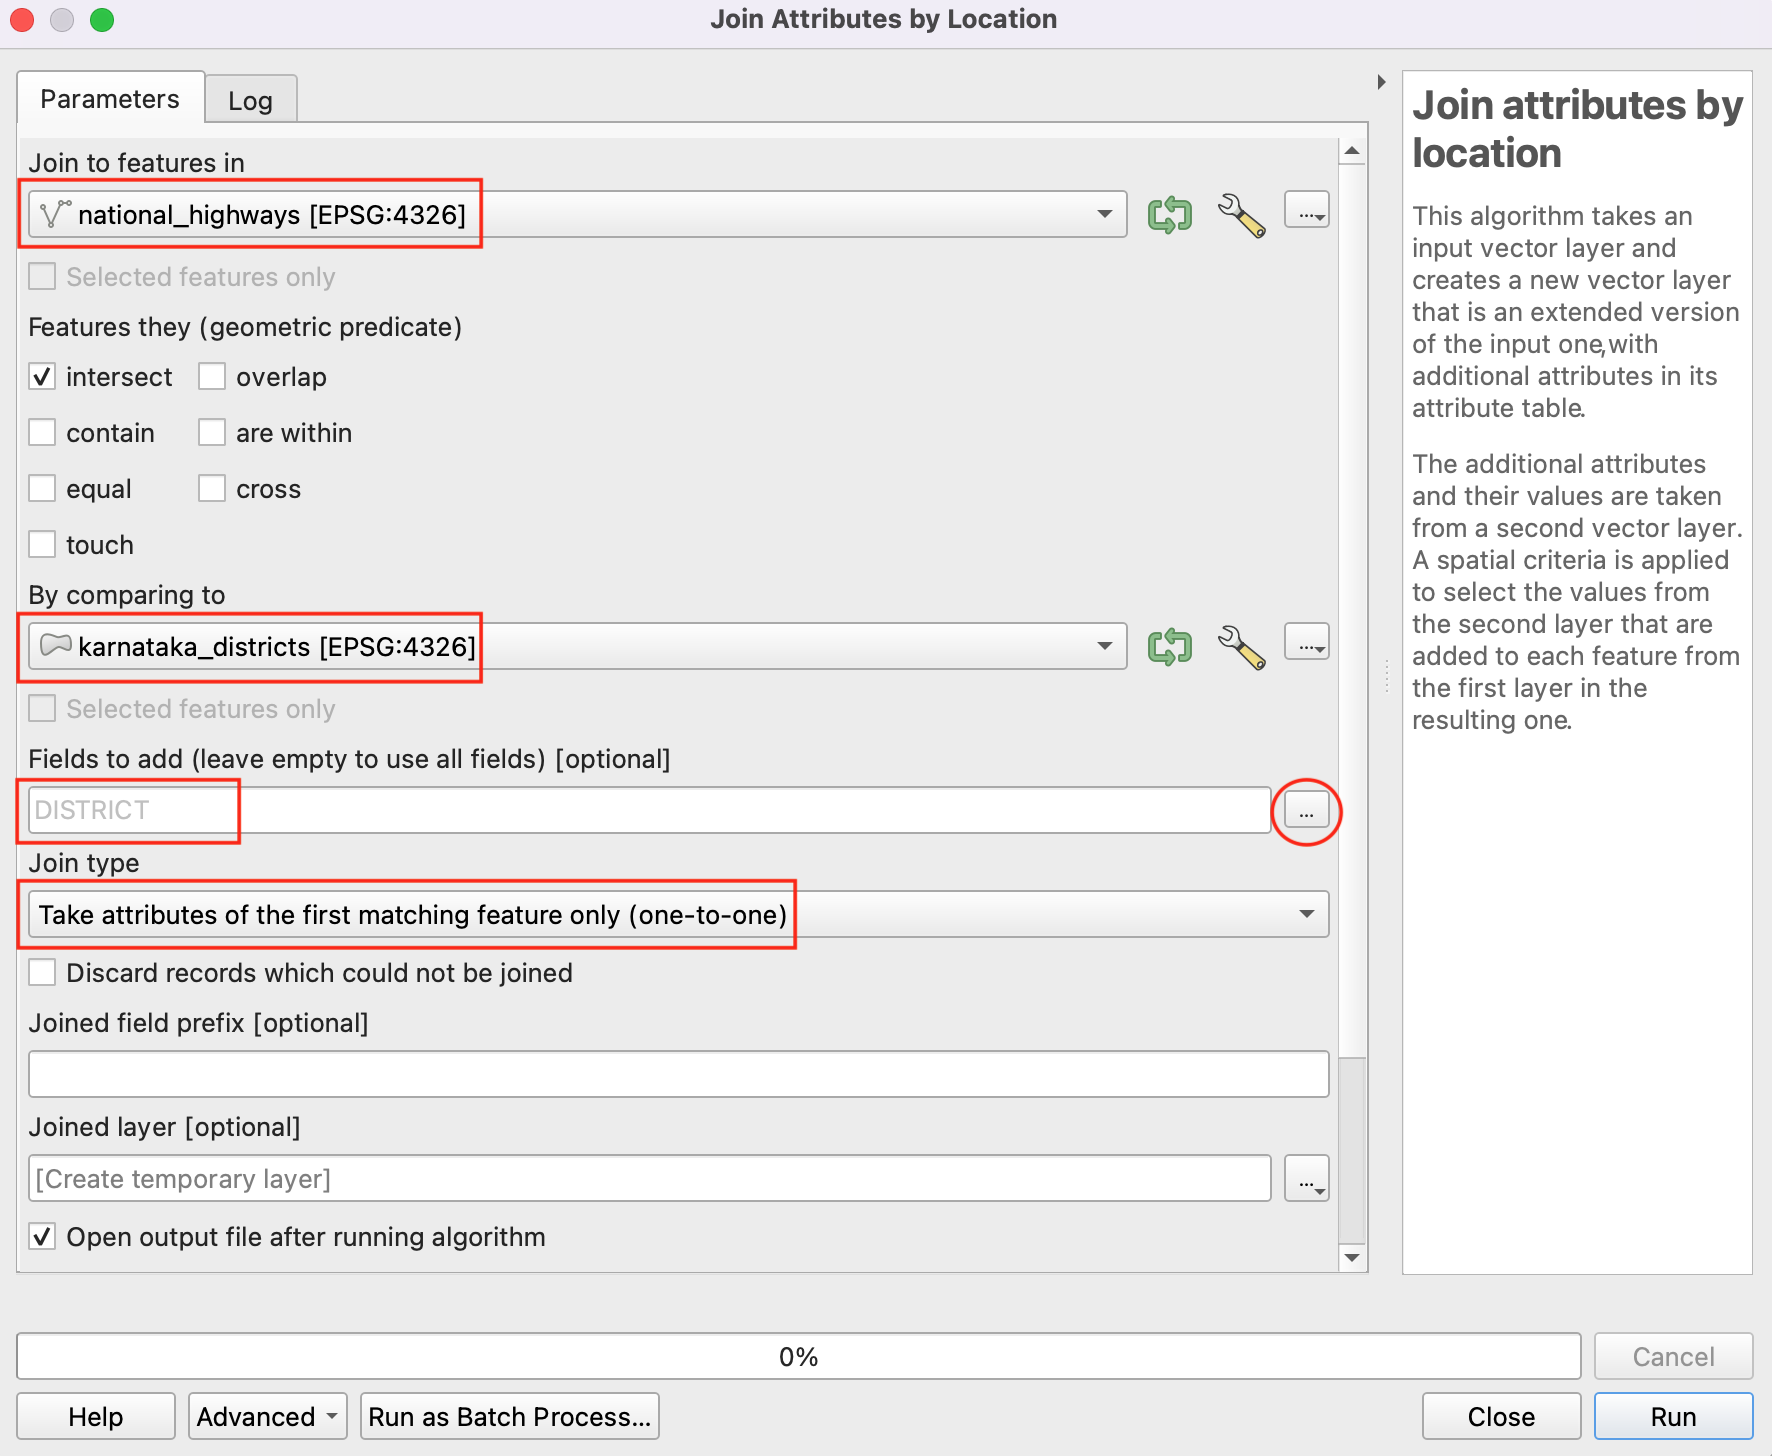
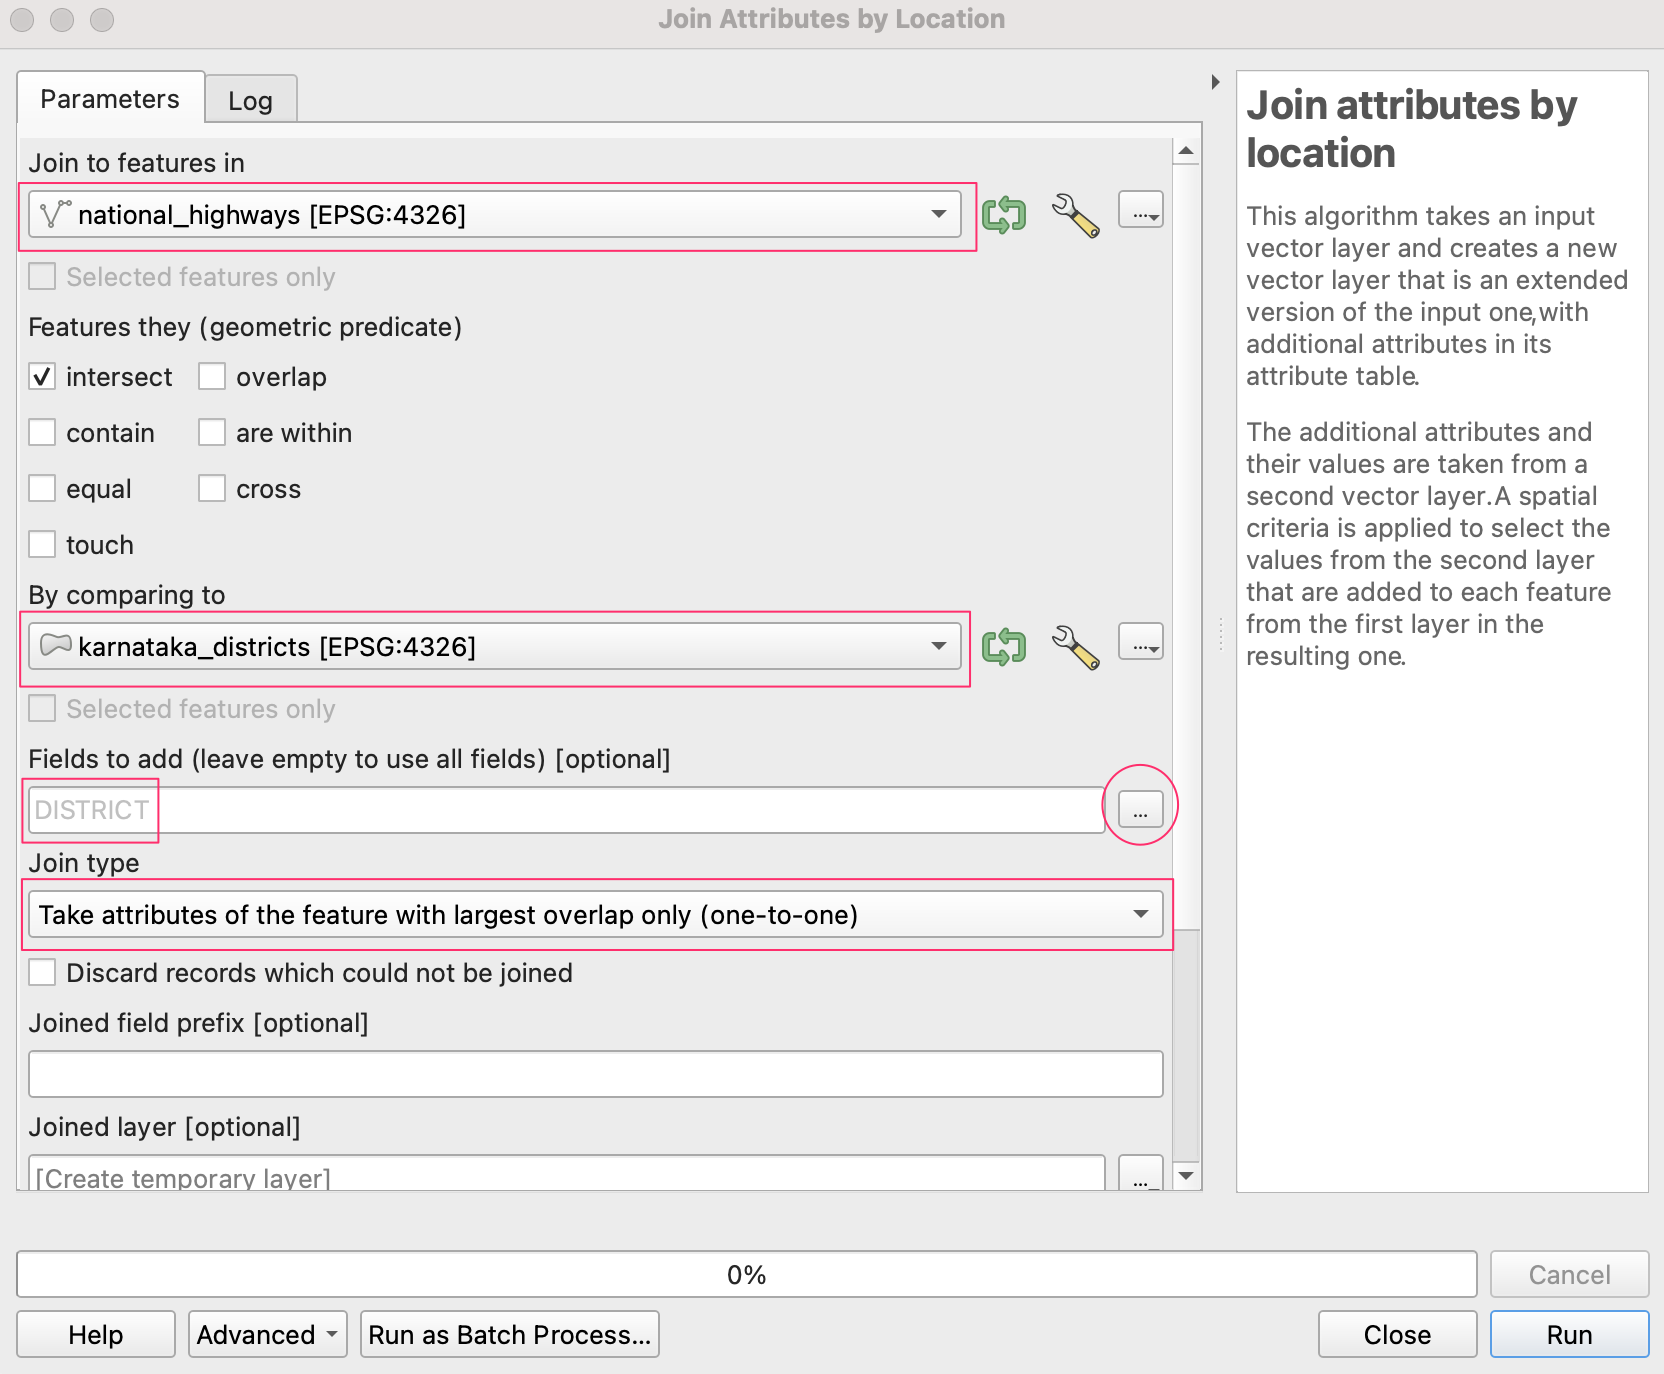
update join

diff --git a/docs/advanced-qgis.html b/docs/advanced-qgis.html
@@ -645,11 +645,23 @@ field.</li>
 <li>To add the name of the district to the roads layer, we need to
 perform a spatial-join. This is done using the <strong>Join attributes
 by Location</strong> algorithm. Search and locate the tool in the
-toolbox. Double-click to open it. Select the
-<code>national_highways</code> as the input layer and do a one-to-one
-join with the <code>karnataka_districts</code> layer. Select only the
-<strong>DISTRICT</strong> field to be added to the output.</li>
+toolbox. Double-click to open it. For <em>Join to features in</em>,
+select the <code>national_highways</code> layer and <em>By comparing
+to</em> as <code>karnataka_districts</code>. This will join each feature
+in the roads layer to the intersecting feature from the districts layer.
+Select only the <strong>DISTRICT</strong> field to be added to the
+output. For the <em>Join type</em>, you have 3 options. Here we want to
+do a one-to-one join where the for each road feature, we want to select
+one district feature. Select the <strong>Take attributes of the feature
+with largest overlap only</strong> option.</li>
 </ol>
+<blockquote>
+<p>In our dataset, the are some road geometries that cross district
+boundaries - causing part of the length being counted as part of another
+district. You may also use the <em>Polygons to lines</em> algorithm on
+the district layer followed by <em>Split by Lines</em> to break the road
+geometries at district boundaries to get an exact one-to-one match.</p>
+</blockquote>
 <p><img src="images/advanced_qgis/join02.png" width="75%" style="display: block; margin: auto;" /></p>
 <ol start="3" style="list-style-type: decimal">
 <li>The new layer <code>Joined layer</code> now has the intersecting
